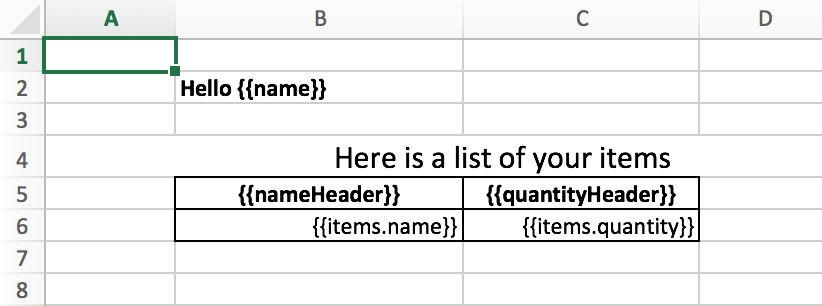
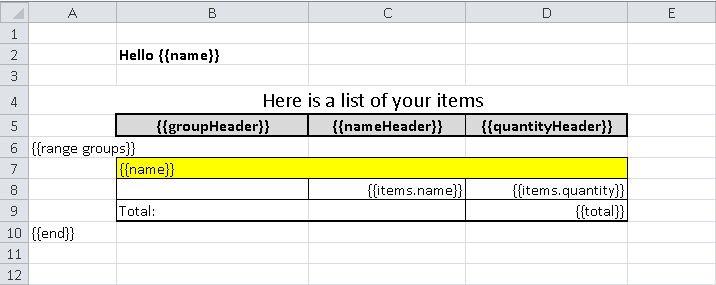
Add ranges info in README

diff --git a/README.md b/README.md
@@ -24,7 +24,7 @@ Thanks to `github.com/tealeg/xlsx` and `github.com/aymerick/raymond` for useful 
 ```
 
 ### Prepare **template.xlsx** template.
-Filename may be any of course. For slices use dot notation `{{items.name}}`. When parser meets dot notation it will repeats contains row.
+Filename may be any of course. For slices use dot notation `{{items.name}}`. When parser meets dot notation it will repeats contains row. If you need repeat few rows, or have nested slices, you can use range start `{{range groups}}` and `{{end}}`.
 
 ![Sample document image](./template.png)
 
@@ -33,24 +33,37 @@ Filename may be any of course. For slices use dot notation `{{items.name}}`. Whe
 ```go
     ctx := map[string]interface{}{
         "name": "Github User",
+        "groupHeader": "Group name",
         "nameHeader": "Item name",
         "quantityHeader": "Quantity",
-        "items": []map[string]interface{}{
+        "groups": []map[string]interface{}{
             {
-                "name": "Pen",
-                "quantity": 2,
+                "name":  "Work",
+                "total": 3,
+                "items": []map[string]interface{}{
+                    {
+                        "name":     "Pen",
+                        "quantity": 2,
+                    },
+                    {
+                        "name":     "Pencil",
+                        "quantity": 1,
+                    },
+                },
             },
             {
-                "name": "Pencil",
-                "quantity": 1,
-            },
-            {
-                "name": "Condom",
-                "quantity": 12,
-            },
-            {
-                "name": "Beer",
-                "quantity": 24,
+                "name":  "Weekend",
+                "total": 36,
+                "items": []map[string]interface{}{
+                    {
+                        "name":     "Condom",
+                        "quantity": 12,
+                    },
+                    {
+                        "name":     "Beer",
+                        "quantity": 24,
+                    },
+                },
             },
         },
     }
